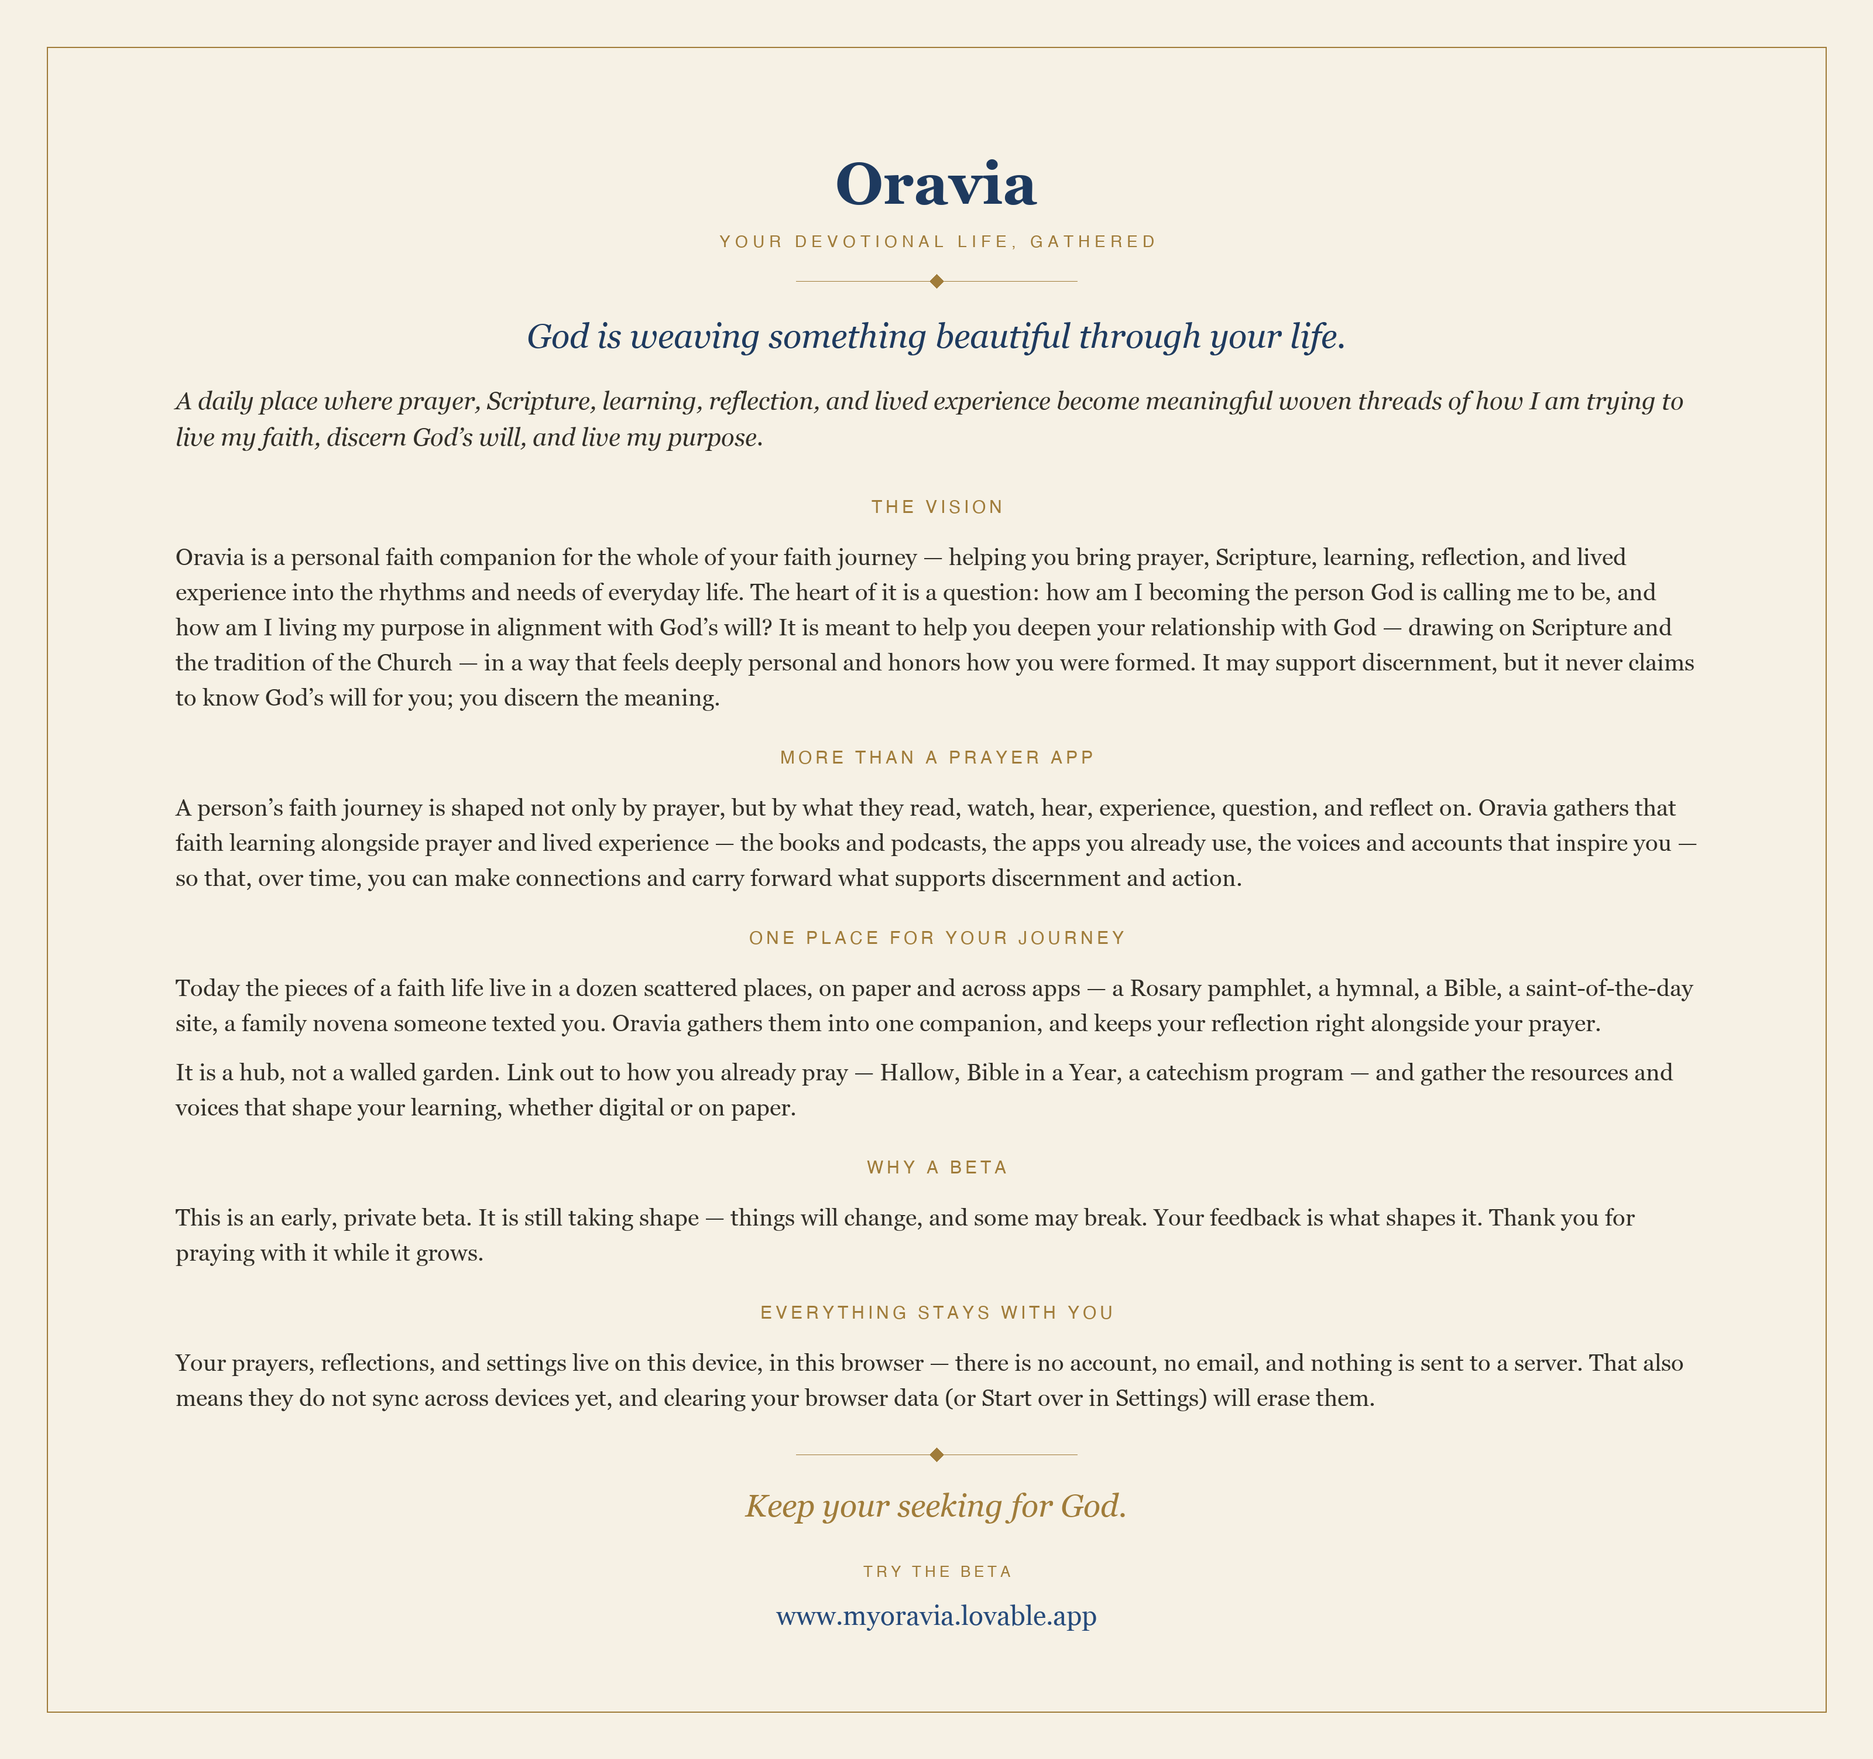
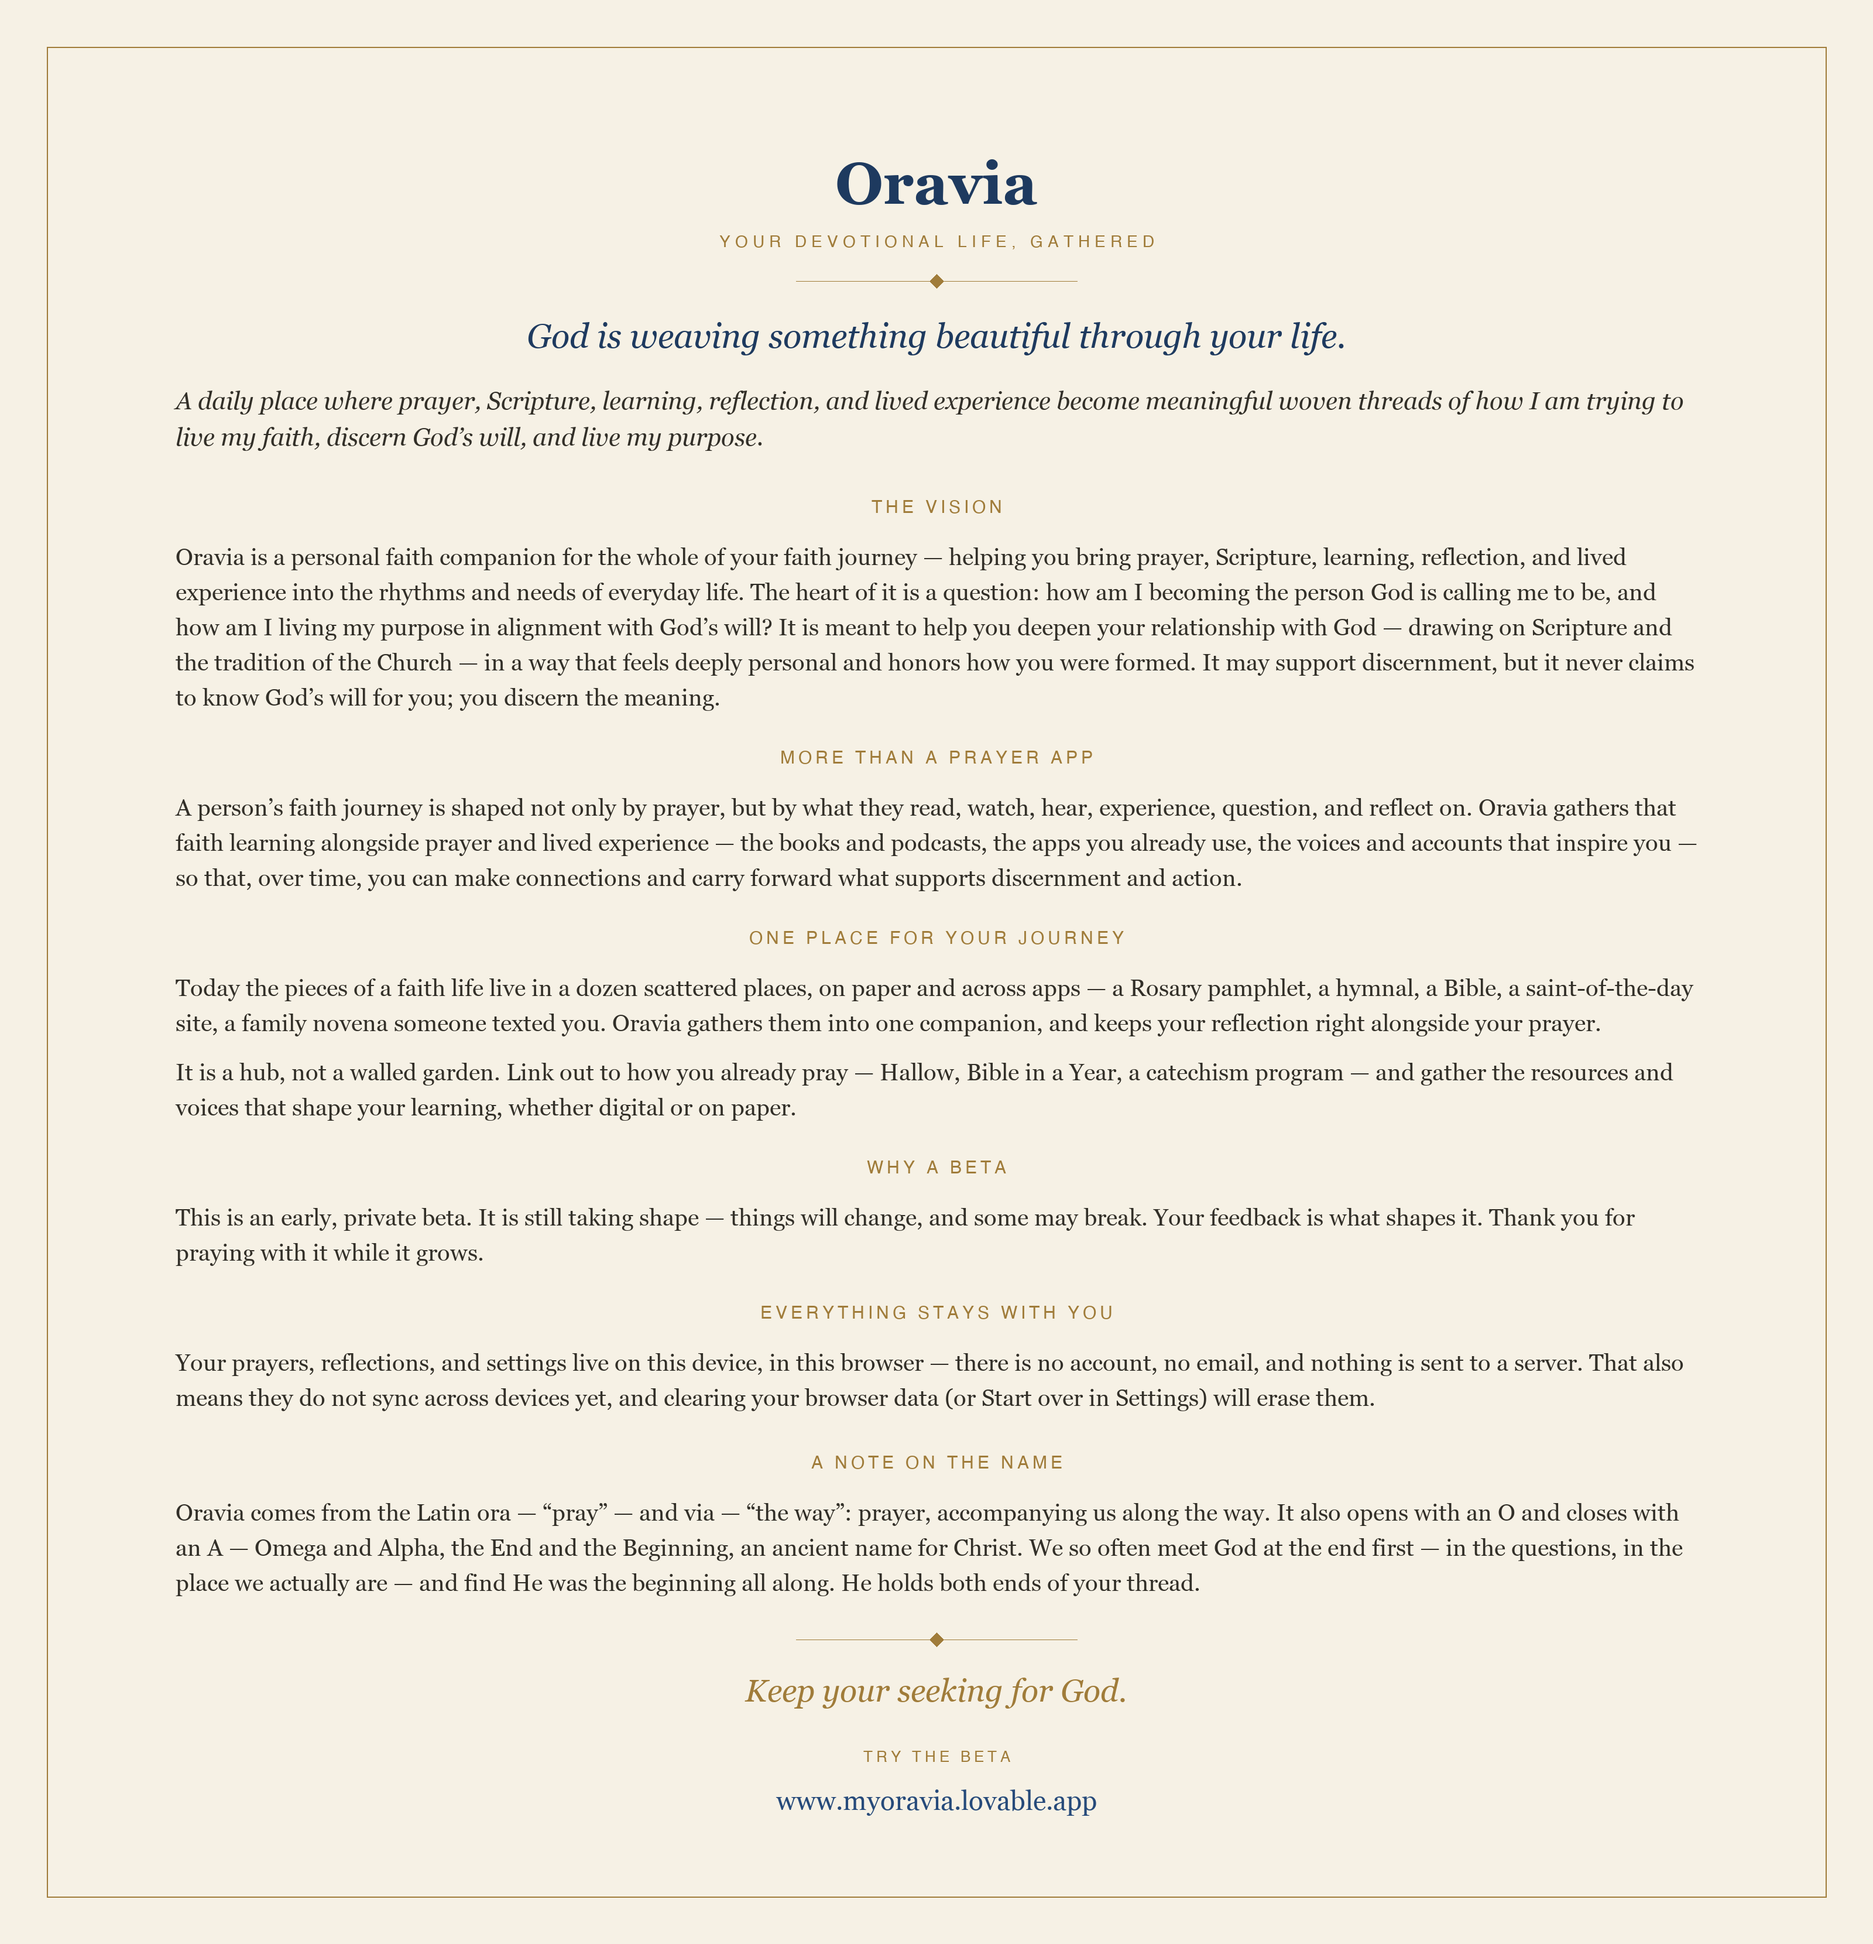
docs: session summary (Oravia rebrand + brand collateral) + refresh About card
- Session summary for 2026-09-04 (rebrand name track + brand assets + Omega/Alpha lore)
- Regenerate docs/brand/oravia-about.png with the new "A note on the name" section

diff --git a/docs/brand/make_about.py b/docs/brand/make_about.py
@@ -84,6 +84,10 @@ label("Everything stays with you")
 para("Your prayers, reflections, and settings live on this device, in this browser — there is no account, no email, and nothing is sent to a server. That also means they do not sync across devices yet, and clearing your browser data (or Start over in Settings) will erase them.",
      gr(20), INK, 30, 30)
 
+label("A note on the name")
+para("Oravia comes from the Latin ora — “pray” — and via — “the way”: prayer, accompanying us along the way. It also opens with an O and closes with an A — Omega and Alpha, the End and the Beginning, an ancient name for Christ. We so often meet God at the end first — in the questions, in the place we actually are — and find He was the beginning all along. He holds both ends of your thread.",
+     gr(20), INK, 30, 30)
+
 rule(28)
 center("Keep your seeking for God.", gi(27), GOLD, 40, 26)
 tracked_center("TRY THE BETA", hv(13), GOLD, 3, 20, 10)

diff --git a/docs/session-summaries/2026-09-04/oravia-rebrand-and-brand-collateral.md b/docs/session-summaries/2026-09-04/oravia-rebrand-and-brand-collateral.md
@@ -1,0 +1,76 @@
+---
+date: 2026-09-04
+stories: [ACTS-144, ACTS-148, ACTS-149]
+kind: session-summary
+---
+
+# Session — Oravia rebrand (name track) + brand collateral
+
+## What happened (in order)
+1. **Started ACTS-144** (Oravia rebrand epic). Split it: **ACTS-144 = name track only**;
+   filed **ACTS-148** (Marian palette / design system, to mock in Claude Design first) and,
+   after a naming discussion, **ACTS-149** (ACTS guided prayer framework — info button +
+   open-prayer mode, so the ACTS acronym survives as a *feature*, not the app name).
+2. **Locked the name with JC:** app name **Oravia** (*ora* "pray" + *via* "the way"),
+   one word, or-AH-vee-ah, no US trademark. "MyOravia" is website/domain layer only.
+3. **Tagline explored + decided:** **"Your devotional life, gathered."** — rejected
+   "Your Catholic life, connected." ("connected" over-claims AI synthesis; "Catholic life"
+   over-claims scope — no sacraments). Also developed a wider brand voice: blessing
+   **"God is weaving something beautiful through your life."**, a search-vs-seek value line,
+   the signature **"Keep your seeking for God."**, and "Follow the sacred thread" (interior).
+4. **Executed the name sweep** (user-facing only, no `STORAGE_KEY` bump): `Brand.tsx` wordmark
+   + tagline, beta gate, all route titles/meta, `manifest.webmanifest`, `FollowAlongView`,
+   and `about.tsx` copy → Oravia. Reverted one over-eager sed hit on an internal `ACTS-119`
+   comment.
+5. **About page blessings placed:** opening blessing (weaving line) above the epigraph,
+   a closing benediction ("Keep your seeking for God."), and warmed the epigraph
+   ("record" → "meaningful woven threads").
+6. **`/save`** → committed code (`e109c05`) + story docs (`2574a19`); later confirmed both
+   are on `origin/main` (JC pushed).
+7. **Brand collateral** (for sending to beta testers): a web brand/About page (published as a
+   private Artifact), a portrait **flyer** PNG, and a compact one-page **About card** PNG with
+   the beta link (`www.myoravia.lovable.app`). Iterated copy with JC (added resources/voices:
+   Prayers · Customized devotions · Digital & physical resources · Voices; added the beta/local
+   note; smaller body + border cropped to content). Preserved all of it in-repo at
+   **`docs/brand/`** (PNGs + Pillow generators + html + README) so it survives the scratchpad.
+8. **Brand lore captured + placed:** **Oravia** opens with **O** (Omega) and closes with **A**
+   (Alpha) — "the End and the Beginning"; a Christ title (Rev 22:13). Added an **"A note on the
+   name"** section to the About page (`about.tsx`) and the About card — Latin *ora*/*via* + the
+   Omega/Alpha grace-note, ending "…we meet God at the end first … and find He was the beginning
+   all along. He holds both ends of your thread."
+
+## Verified (and how)
+- `npx tsc --noEmit` clean after the sweep and each About edit.
+- `grep` confirmed zero user-facing app-name "ACTS" remains (only `ACTS-<n>` ids + the internal
+  `acts-beta-unlocked` key).
+- Browser (own dev server, light theme): beta gate, side-rail wordmark, and `/about` all read
+  **Oravia**; tab titles updated. (App is light-only today — dark theme deferred to ACTS-148.)
+- Brand images rendered with Pillow and **viewed** to verify layout/legibility; fixed two glyph
+  tofu-boxes (a `◆` and a `→`) and rebalanced the About card.
+
+## Git state at handoff
+- **Pushed to `origin/main`:** `e109c05` (rename code), `2574a19` (story docs).
+- **Committed, NOT pushed:** `656da73` (docs/brand assets), plus this session's closing commits
+  (About "note on the name" code + brand-card refresh + this summary). Push kept failing on a git
+  credential error (`could not read Username`). **Push from a git client.**
+- **Uncommitted (intentional):** `.env` (beta passcode — predates this session).
+
+## Parked / next
+- **Push `656da73`** from your git client.
+- **Publish the beta** on Lovable at `www.myoravia.lovable.app` (the About card already prints
+  that URL).
+- **ACTS-148** — Marian palette / design system: mock in Claude Design → `styles.css` oklch
+  tokens; adds dark theme + brand-mark art / favicon / `theme_color`.
+- **ACTS-149** — ACTS guided prayer framework (info button + open-prayer mode).
+- **ACTS-147** — PRD v3→v4 is now unblocked (was gated on the rebrand).
+- Optional: revisit the wordmark display face with ACTS-148; the Omega/Alpha easter egg for
+  onboarding/About.
+
+## Next session — opener (paste to start)
+> Continue the Oravia work. Rebrand name sweep (ACTS-144) is shipped, committed, and pushed
+> (`e109c05`, `2574a19`); brand collateral is in `docs/brand/` (commit `656da73` — **verify it
+> got pushed**). Next options: (a) **ACTS-148** — build the Marian palette/design system (mock
+> in Claude Design first, then `src/styles.css` oklch tokens; adds dark theme + favicon/
+> theme_color/brand-mark art); (b) **ACTS-149** — ACTS guided prayer framework (info button +
+> open-prayer mode on ACTS-108); (c) **ACTS-147** — `/prd-sync` v3→v4 (now unblocked). Beta
+> publishes at `www.myoravia.lovable.app`. `/start ACTS-148` (or 149 / 147) to begin.
